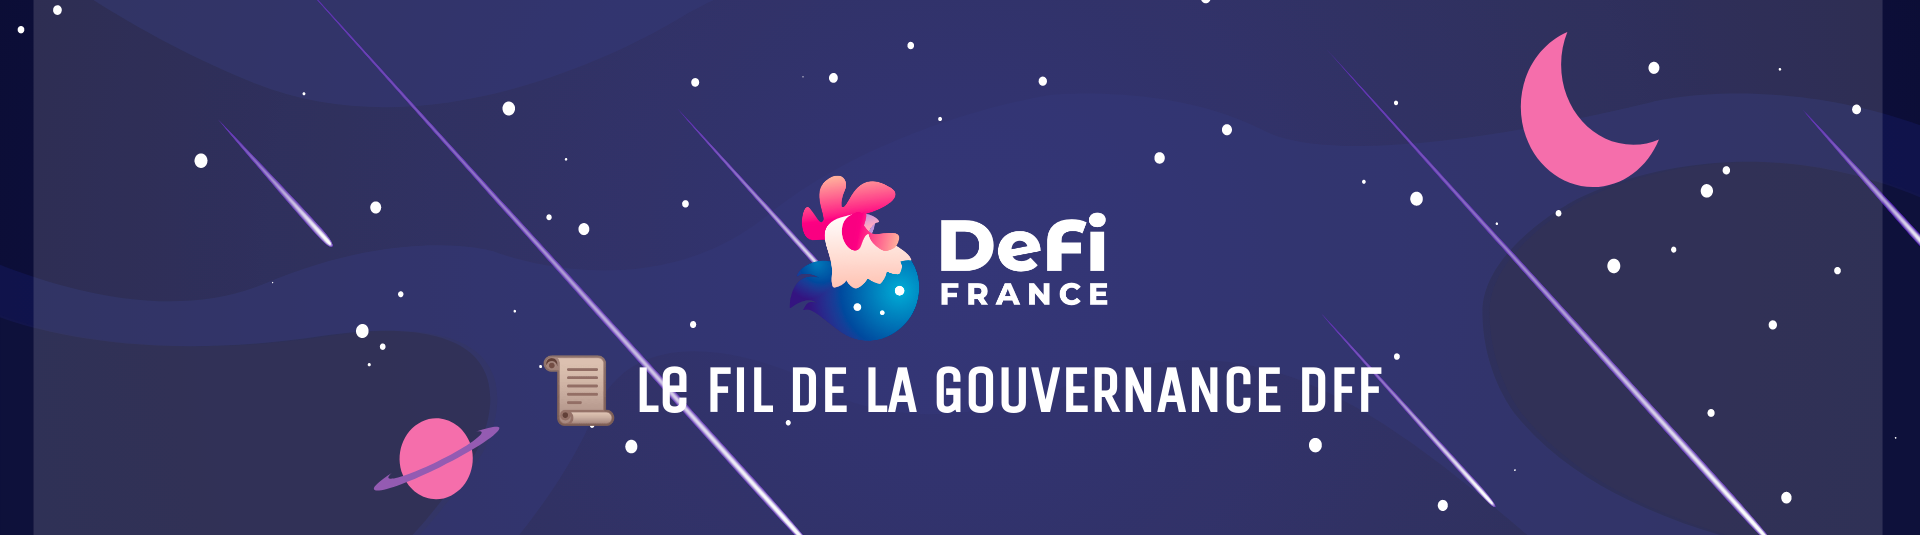
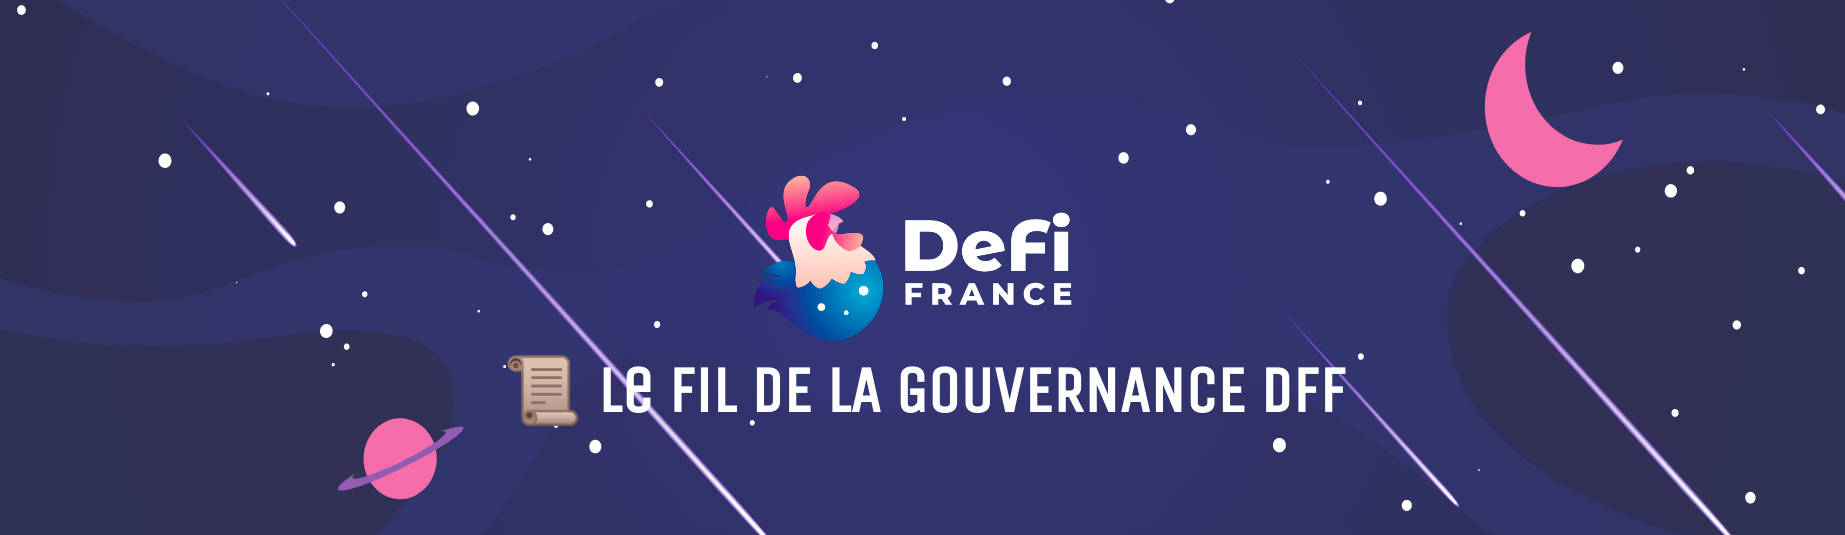
GitBook: [#16] image couverture - page rôles

diff --git a/group-1/page-3.md b/group-1/page-3.md
@@ -1,3 +1,9 @@
+---
+description: Description et distribution des différents rôles au sein de la communauté
+cover: ../.gitbook/assets/dff-banner-roles.png
+coverY: 0
+---
+
 # 🧭 Aperçu des responsabilités
 
 Au sein de la communauté DeFi France, les membres sont directement en charge autant que possible grâce aux interactions communautaires pondérées par le système de blé.

diff --git a/gouvernance-defi-france/fonctionnement-de-defi-france/README.md b/gouvernance-defi-france/fonctionnement-de-defi-france/README.md
@@ -2,8 +2,8 @@
 description: >-
   Comment fonction la communauté DeFi France, a quoi correspond t-elle, et
   comment elle s'organise ?
-cover: ../../.gitbook/assets/defi-france-banniere.png
-coverY: -11.80630284396618
+cover: ../../.gitbook/assets/dff-bannière.png
+coverY: 0
 ---
 
 # 🍕 Fonctionnement de DeFi France
